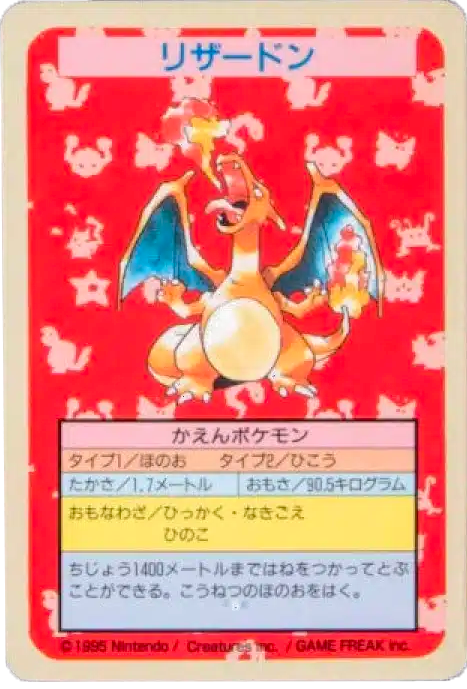
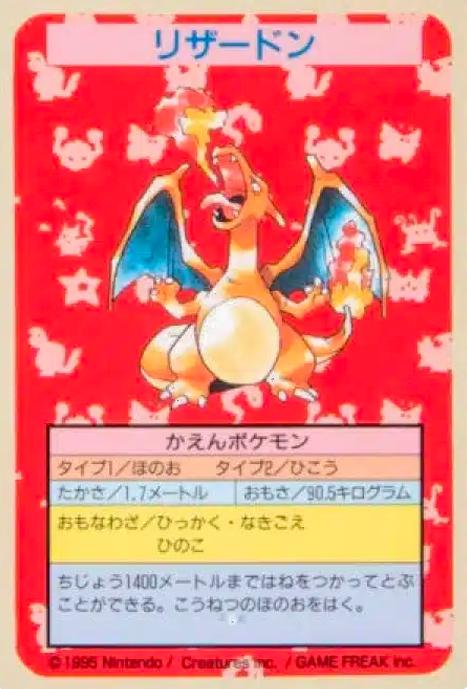
change picture png and add 3D effect to card

diff --git a/styles.css b/styles.css
@@ -29,6 +29,28 @@
 .cards img {
   width: auto;
   height: 300px;
+  perspective: 1000px;
+  transition: 0.3s;
+  -webkit-transition: 0.3s;
+  -moz-transition: 0.3s;
+  -ms-transition: 0.3s;
+  -o-transition: 0.3s;
+  box-shadow: rgba(142, 142, 142, 0.5) 0px 30px 30px -10px;
+  transition: all 0.5s ease-in-out;
+}
+
+.cards img:hover {
+  width: auto;
+  height: 300px;
+  background-position: -100px 100px, -100px 100px;
+  transform: rotate3d(0.5, 1, 0, 30deg);
+  transition: 0.3s;
+  -webkit-transition: 0.3s;
+  -moz-transition: 0.3s;
+  -ms-transition: 0.3s;
+  -o-transition: 0.3s;
+  box-shadow: rgba(142, 142, 142, 0.5) 0px 30px 30px -10px;
+  transition: all 0.5s ease-in-out;
 }
 
 .cards [class^="container"] {
@@ -46,86 +68,6 @@
   display: flex;
   flex-direction: column;
   width: 100%;
-}
-
-.card-img-dracaufeu-japan-front {
-  transition: 0.3s;
-  -webkit-transition: 0.3s;
-  -moz-transition: 0.3s;
-  -ms-transition: 0.3s;
-  -o-transition: 0.3s;
-}
-
-.card-img-dracaufeu-japan-front:hover {
-  transform: scale(1.1);
-  transition: 0.3s;
-  -webkit-transition: 0.3s;
-  -moz-transition: 0.3s;
-  -ms-transition: 0.3s;
-  -o-transition: 0.3s;
-  -webkit-transform: scale(1.1);
-  -moz-transform: scale(1.1);
-  -ms-transform: scale(1.1);
-  -o-transform: scale(1.1);
-}
-
-.card-img-dracaufeu-shadowless {
-  transition: 0.3s;
-  -webkit-transition: 0.3s;
-  -moz-transition: 0.3s;
-  -ms-transition: 0.3s;
-  -o-transition: 0.3s;
-}
-
-.card-img-dracaufeu-shadowless:hover {
-  transform: scale(1.1);
-  transition: 0.3s;
-  -webkit-transition: 0.3s;
-  -moz-transition: 0.3s;
-  -ms-transition: 0.3s;
-  -o-transition: 0.3s;
-  -webkit-transform: scale(1.1);
-  -moz-transform: scale(1.1);
-  -ms-transform: scale(1.1);
-  -o-transform: scale(1.1);
-}
-
-.card-img-pikachu {
-  transition: 0.3s;
-  -webkit-transition: 0.3s;
-  -moz-transition: 0.3s;
-  -ms-transition: 0.3s;
-  -o-transition: 0.3s;
-}
-
-.card-img-pikachu:hover {
-  transform: scale(1.1);
-  transition: 0.3s;
-  -webkit-transition: 0.3s;
-  -moz-transition: 0.3s;
-  -ms-transition: 0.3s;
-  -o-transition: 0.3s;
-  -webkit-transform: scale(1.1);
-  -moz-transform: scale(1.1);
-  -ms-transform: scale(1.1);
-  -o-transform: scale(1.1);
-}
-
-.card-img-tortank {
-  transition: 0.3s;
-  -webkit-transition: 0.3s;
-  -moz-transition: 0.3s;
-  -ms-transition: 0.3s;
-  -o-transition: 0.3s;
-}
-
-.card-img-tortank:hover {
-  transform: scale(1.1);
-  transition: 0.3s;
-  -webkit-transition: 0.3s;
-  -moz-transition: 0.3s;
-  -ms-transition: 0.3s;
-  -o-transition: 0.3s;
 }
 
 .card-review {
